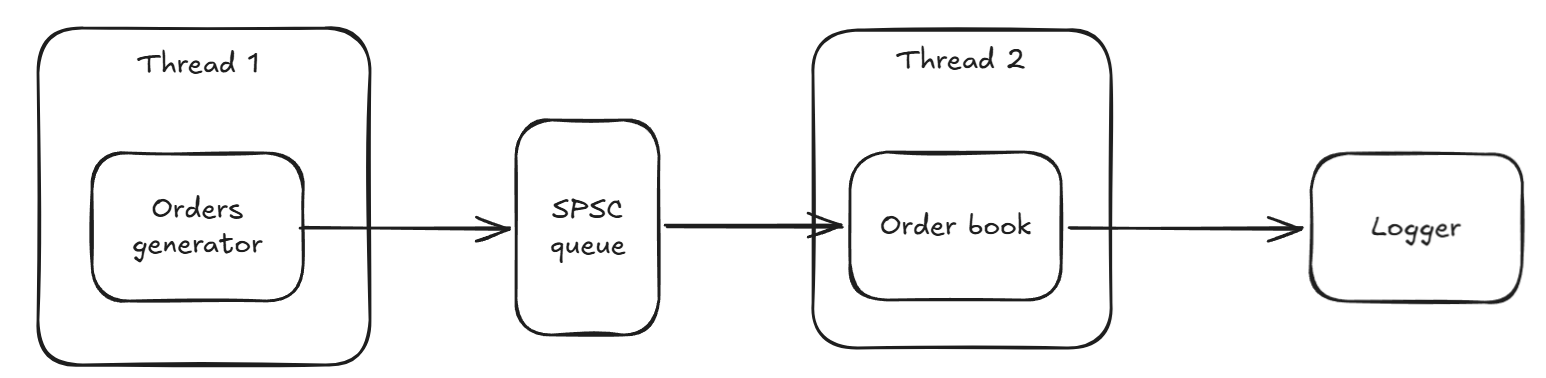
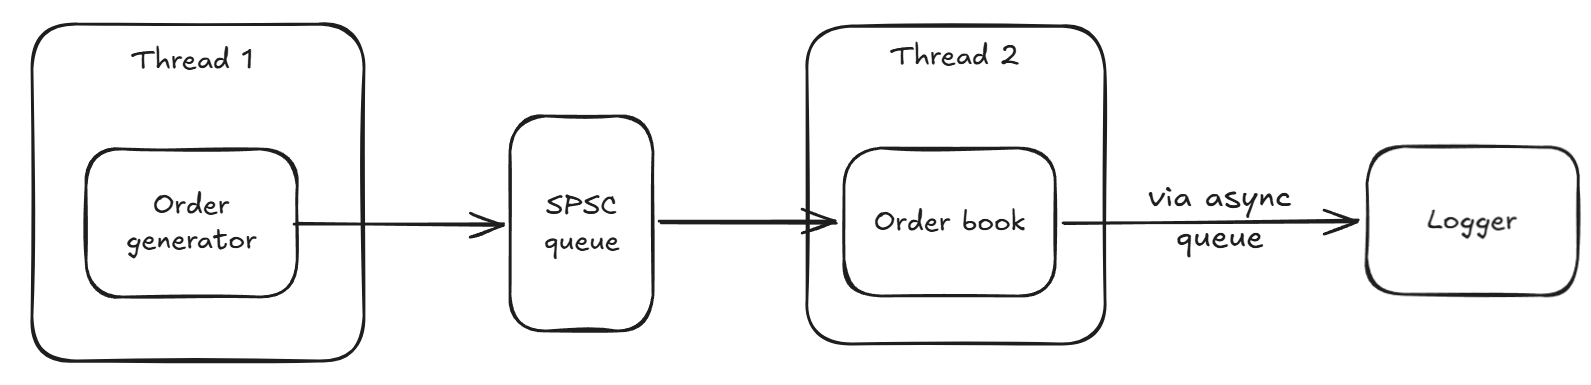
Complete docs for now

diff --git a/docs/TODO.md b/docs/TODO.md
@@ -7,15 +7,19 @@
     - Write a script for getting coverage results in `.html` format. Add tests (or fix code) to get >=95% of lines coverage. 
     
 - **M2. Driven end to end.**
-    - Add order generator and logger. A complete pipeline (but single-threaded). 
+    - Implement an order generator. Write unit-tests. Get >=95% of lines coverage.
+    - Implement a logger. Write unit-tests. Get >=95% of lines coverage.
+    - The complete system is single-threaded at the moment.
+    - Write integration tests (to check that the complete pipeline works as expected).
 
 - **M3. Measurable.**
-    - Add benchmarking, throughput, etc. Add profiling.
+    - Add benchmarking and measurements of performance. 
+    - Add a possibility of profiling the whole program.
 
 - **M4. Concurrent.**
-    - Add multithreading, SPSC queue, etc. 
-    - Fix sanitizer errors.
+    - Implement multithreading. Add SPSC queue (for communication between the order generator and order book).
+    - Fix TSan errors.
 
 - **M5. Optimizations. Results.**
-    - Do optimizations to get better results at performance.
+    - Optimize code to get at least x2 in performance. Run a profiler to find bottlenecks.
     - Conclude the project, complete READMEs.

diff --git a/docs/ARCHITECTURE.md b/docs/ARCHITECTURE.md
@@ -8,11 +8,11 @@ Modules that the program consists of.
 
 **Inputs**: orders that contain user id (who made an order), price, amount (number of stocks to buy/sell), type of order (buy or sell).
 
-**Outputs**: empty, but only when an order is executed, it outputs information about the executed order - ids of users whose orders were executed (if one buys/sells, then another sells/buys), price, and amount. 
+**Outputs**: only when an order is executed, it outputs information about the executed order - ids of users whose orders were executed (if one buys/sells, then another sells/buys), price, and amount. 
 
 **Does not do**: printing out executed orders.
 
-## 2. Orders generator
+## 2. Order generator
 
 **Responsibility**: generates real-like orders with user id, price, amount, and order type, and simulates real-like behavior of the stock market (who and at which price places an order). 
 
@@ -33,7 +33,5 @@ Modules that the program consists of.
 **Does not do**: processing/modifications of order(-s) in any way. 
 
 # Interfaces
-
-*TO-DO: think how to handle logging from order book; use just another thread (thread 3)? or thread pool? or anything else?*
 
 ![image](Interfaces.png)

diff --git a/docs/DESIGN.md b/docs/DESIGN.md
@@ -1,7 +1,7 @@
 ## Goals
 
 1) An order book that is capable of processing buy and sell requests at a specific price.
-2) Executed orders are logged into the file.
+2) Executed orders are logged into the file by a logger module. This module is ran asynchronously to not stop the order book thread.
 3) Generator of orders is running in one process with order book matching engine, but in a separate thread.
 4) Get hands on a serious project development in C++, including: planning and design of the program, full cmake usage, various build types, sanitizers, unit tests, code coverage, benchmarks.
 

diff --git a/docs/DECISIONS.md b/docs/DECISIONS.md
@@ -1,0 +1,7 @@
+# Decisions 
+
+- Prices are considered to be only integer (no floating-point values). This is made to minimize worrying about floating-point calculations and handling because it's not part of goals for this project.
+
+- An array is used to store orders in the order book. We can access elements by prices (that are received from outside) in O(1). It's cache-friendly.
+
+- 
